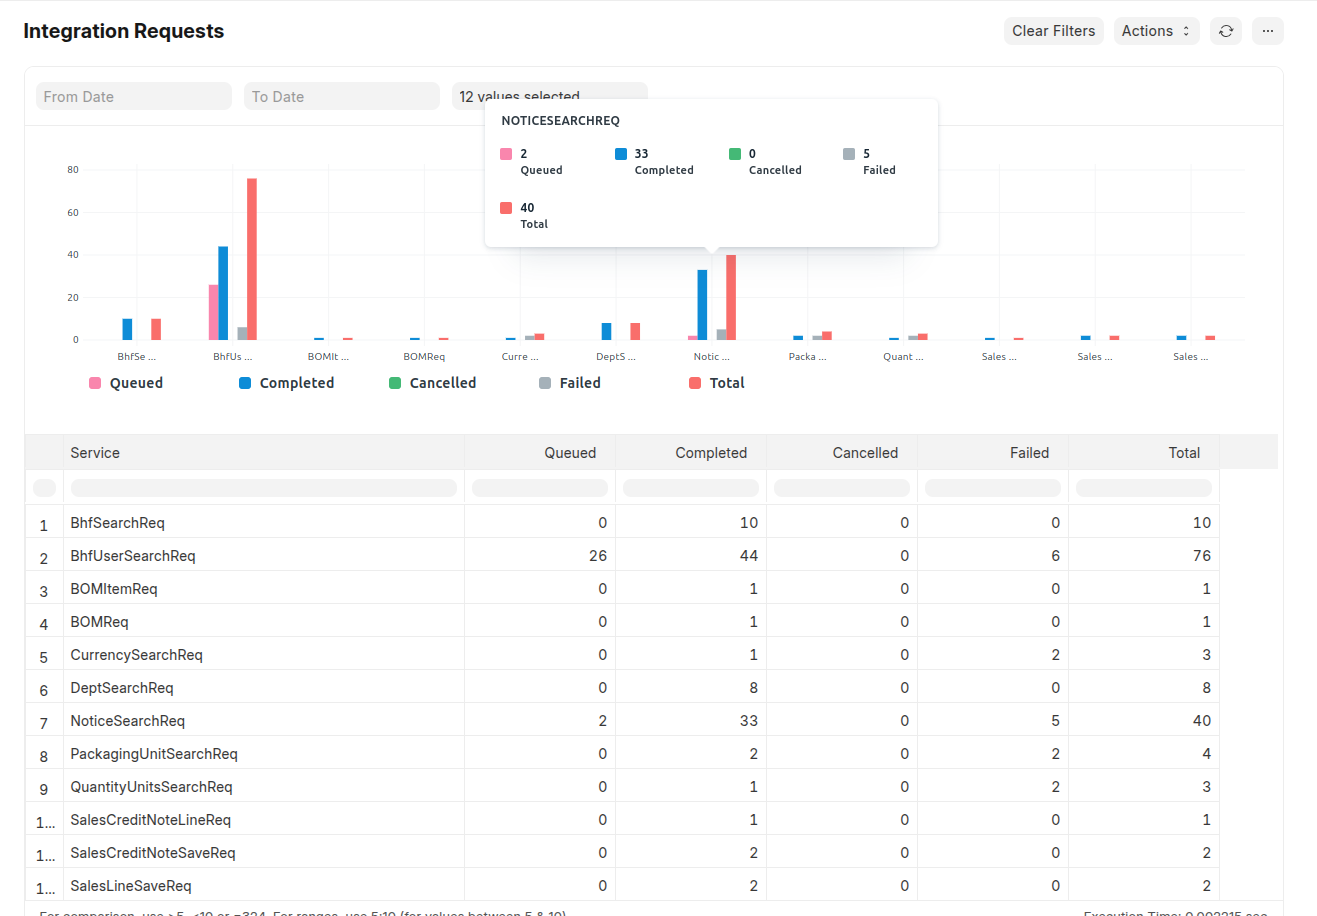
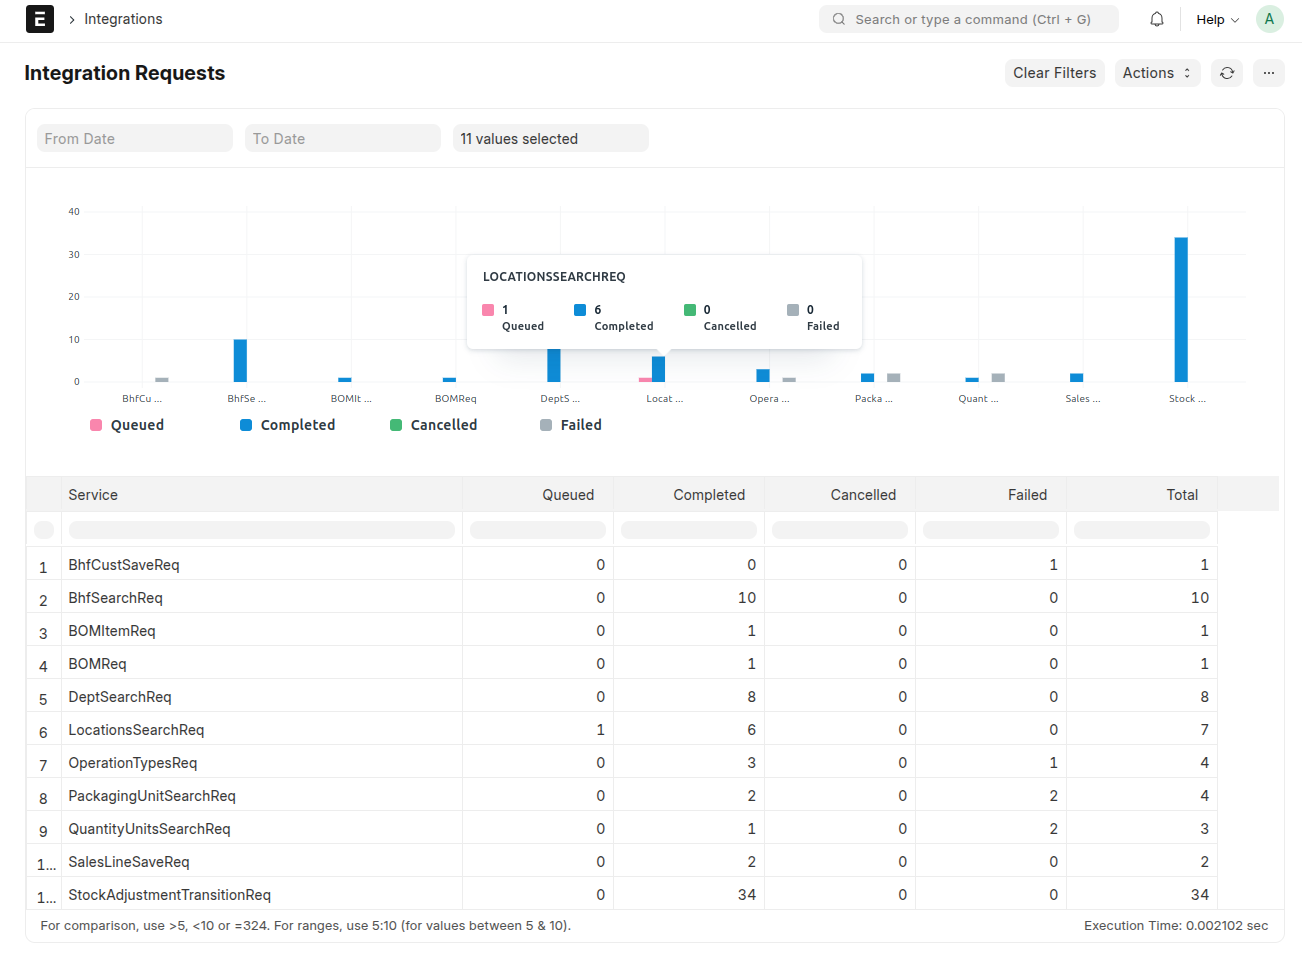
feat: update readme images and enhance quantity calculations in integration reports and stock ledger entries

diff --git a/kenya_compliance_via_slade/kenya_compliance_via_slade/overrides/server/stock_ledger_entry.py b/kenya_compliance_via_slade/kenya_compliance_via_slade/overrides/server/stock_ledger_entry.py
@@ -268,13 +268,9 @@ def stock_mvt_submission_on_success(
     route_key = "StockIOLineReq"
     requset_data = {
         "document_name": document_name,
-        "organisation": frappe.get_value("Company", record.company, "custom_slade_id"),
-        "source_organisation_unit": frappe.get_value(
-            "Department", record.department, "custom_slade_id"
-        ),
         "product": item.custom_slade_id,
-        "quantity": abs(doc.actual_qty),
-        "quantity_confirmed": abs(doc.actual_qty),
+        "quantity": round(abs(doc.actual_qty), 2),
+        "quantity_confirmed": round(abs(doc.actual_qty), 2),
     }
     if doc.voucher_type == "Stock Reconciliation" or (
         doc.voucher_type == "Stock Entry" and record.is_opening == "Yes"

diff --git a/kenya_compliance_via_slade/kenya_compliance_via_slade/background_tasks/task_response_handlers.py b/kenya_compliance_via_slade/kenya_compliance_via_slade/background_tasks/task_response_handlers.py
@@ -655,8 +655,8 @@ def operation_types_search_on_success(
         {
             "slade_id": response.get("id"),
             "operation_name": response.get("operation_name"),
-            "source_location_id": response.get("source_location"),
-            "destination_location_id": response.get("destination_location"),
+            "source_location": response.get("source_location"),
+            "destination_location": response.get("destination_location"),
             "operation_type": response.get("operation_type"),
         },
     )

diff --git a/kenya_compliance_via_slade/kenya_compliance_via_slade/apis/remote_response_status_handlers.py b/kenya_compliance_via_slade/kenya_compliance_via_slade/apis/remote_response_status_handlers.py
@@ -291,7 +291,7 @@ def process_invoice_items(
             "product": get_link_value(
                 "Item", "name", item.get("item_code"), "custom_slade_id"
             ),
-            "quantity": abs(item.get("qty")),
+            "quantity": round(abs(item.get("qty")), 2),
             "new_price": item.get("rate")
             + (abs(item.get("custom_tax_amount", 0)) / abs(item.get("qty"))),
             "amount": abs(item.get("amount")) + abs(item.get("custom_tax_amount", 0)),

diff --git a/kenya_compliance_via_slade/kenya_compliance_via_slade/apis/apis.py b/kenya_compliance_via_slade/kenya_compliance_via_slade/apis/apis.py
@@ -514,7 +514,7 @@ def update_stock_quantity(name: str, id: str) -> None:
         process_request(
             request_data,
             route_key="SaveStockBalanceReq",
-            handler_function=submit_inventory_on_success,
+            # handler_function=submit_inventory_on_success,
             request_method="PATCH",
             doctype="Item",
         )

diff --git a/kenya_compliance_via_slade/kenya_compliance_via_slade/report/integration_requests/integration_requests.py b/kenya_compliance_via_slade/kenya_compliance_via_slade/report/integration_requests/integration_requests.py
@@ -114,7 +114,6 @@ class IntegrationRequestAnalytics:
                 "values": [row.get("cancelled", 0) for row in self.data],
             },
             {"name": "Failed", "values": [row.get("failed", 0) for row in self.data]},
-            {"name": "Total", "values": [row.get("total", 0) for row in self.data]},
         ]
 
         self.chart = {
